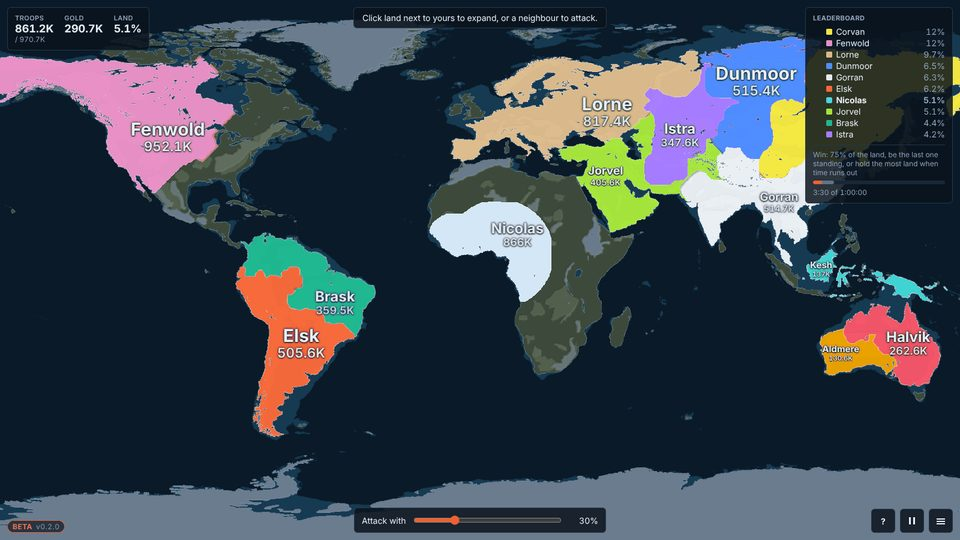
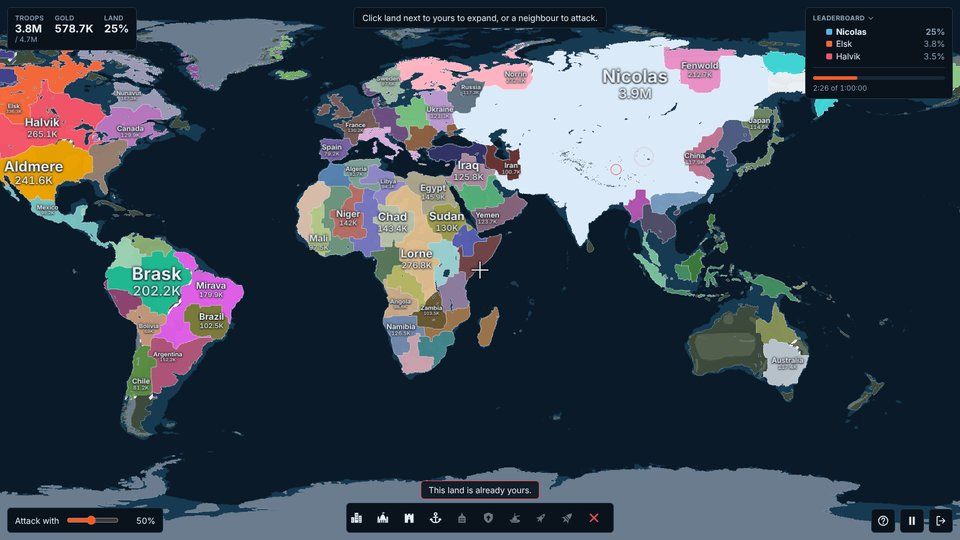
feat: actualise les fiches Frontfall et Zeus et les présente sur l'accueil (#139)
Frontfall est sorti de bêta (1.1, globe en 3D en option, 13 cartes) et Zeus +
Poseidon tourne aussi sur Mac Intel et sous Linux (1.7.3). Les fiches, les
chiffres et la capture de Frontfall suivent ces versions. L'accueil gagne une
section Projets qui reprend les deux fiches illustrées de l'onglet Dev et
renvoie vers l'onglet Dev et le portfolio.

diff --git a/src/app/[lang]/page.tsx b/src/app/[lang]/page.tsx
@@ -1,5 +1,6 @@
 import Link from "next/link";
 import { getContent } from "@/lib/content";
+import { fichesMisesEnAvant } from "@/lib/projets";
 import { pageMetadata } from "@/lib/metadata";
 import { resolveLocale } from "@/lib/route";
 
@@ -11,6 +12,10 @@ export default async function Home({ params }: PageProps<"/[lang]">) {
   const lang = await resolveLocale(params);
   const { accueil, profil, ui } = getContent(lang);
   const { referentiels } = accueil;
+  // Les deux premières fiches illustrées de l'onglet Dev, dans son ordre.
+  const projets = fichesMisesEnAvant(lang, [])
+    .filter((f) => f.image)
+    .slice(0, 2);
 
   return (
     <main id="contenu" className="wrap">
@@ -31,6 +36,43 @@ export default async function Home({ params }: PageProps<"/[lang]">) {
             </Link>
             <Link className="button button--secondary" href={`/${lang}/contact`}>
               {ui.accueil.meContacter}
+            </Link>
+          </div>
+        </div>
+      </section>
+
+      <section className="section" aria-labelledby="projets">
+        <h2 className="section__label" id="projets">
+          {ui.accueil.projets}
+        </h2>
+        <div className="section__body">
+          <p className="prose">{ui.accueil.projetsIntro}</p>
+          {projets.map((f) => (
+            <article className="project" key={f.id} aria-labelledby={`accueil-${f.id}`}>
+              <h3 id={`accueil-${f.id}`}>
+                <Link href={`/${lang}/dev#projet-${f.id}`}>{f.titre}</Link>
+              </h3>
+              <p>{f.pitch}</p>
+              {f.chiffres && f.chiffres.length > 0 && (
+                <p className="project__figures">
+                  {f.chiffres.map((c) => `${c.valeur} ${c.libelle}`).join(" · ")}
+                </p>
+              )}
+              <ul className="project__links">
+                {f.liens.slice(0, 2).map((l) => (
+                  <li key={l.url}>
+                    <a href={l.url}>{l.libelle}</a>
+                  </li>
+                ))}
+              </ul>
+            </article>
+          ))}
+          <div className="actions">
+            <Link className="button button--secondary" href={`/${lang}/dev`}>
+              {ui.accueil.voirDev}
+            </Link>
+            <Link className="button button--secondary" href={`/${lang}/portfolio`}>
+              {ui.accueil.voirPortfolio}
             </Link>
           </div>
         </div>

diff --git a/src/content/types.ts b/src/content/types.ts
@@ -133,6 +133,10 @@ export interface Interface {
     parcours: string;
     voirCv: string;
     meContacter: string;
+    projets: string;
+    projetsIntro: string;
+    voirDev: string;
+    voirPortfolio: string;
   };
   portfolio: {
     titre: string;
